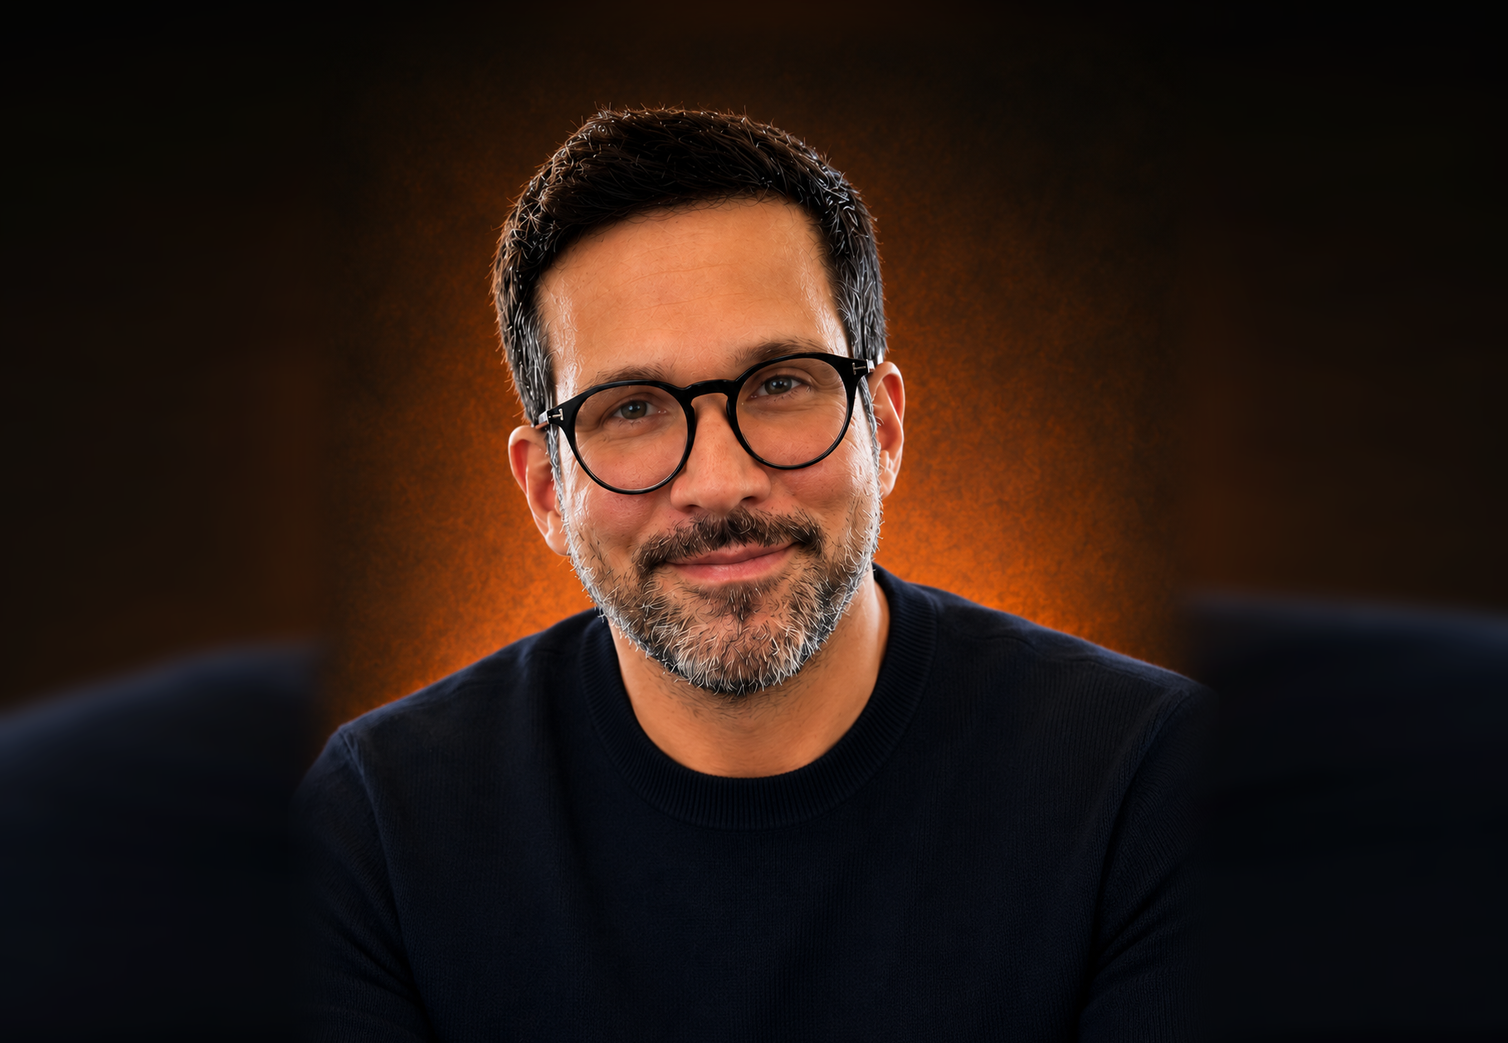
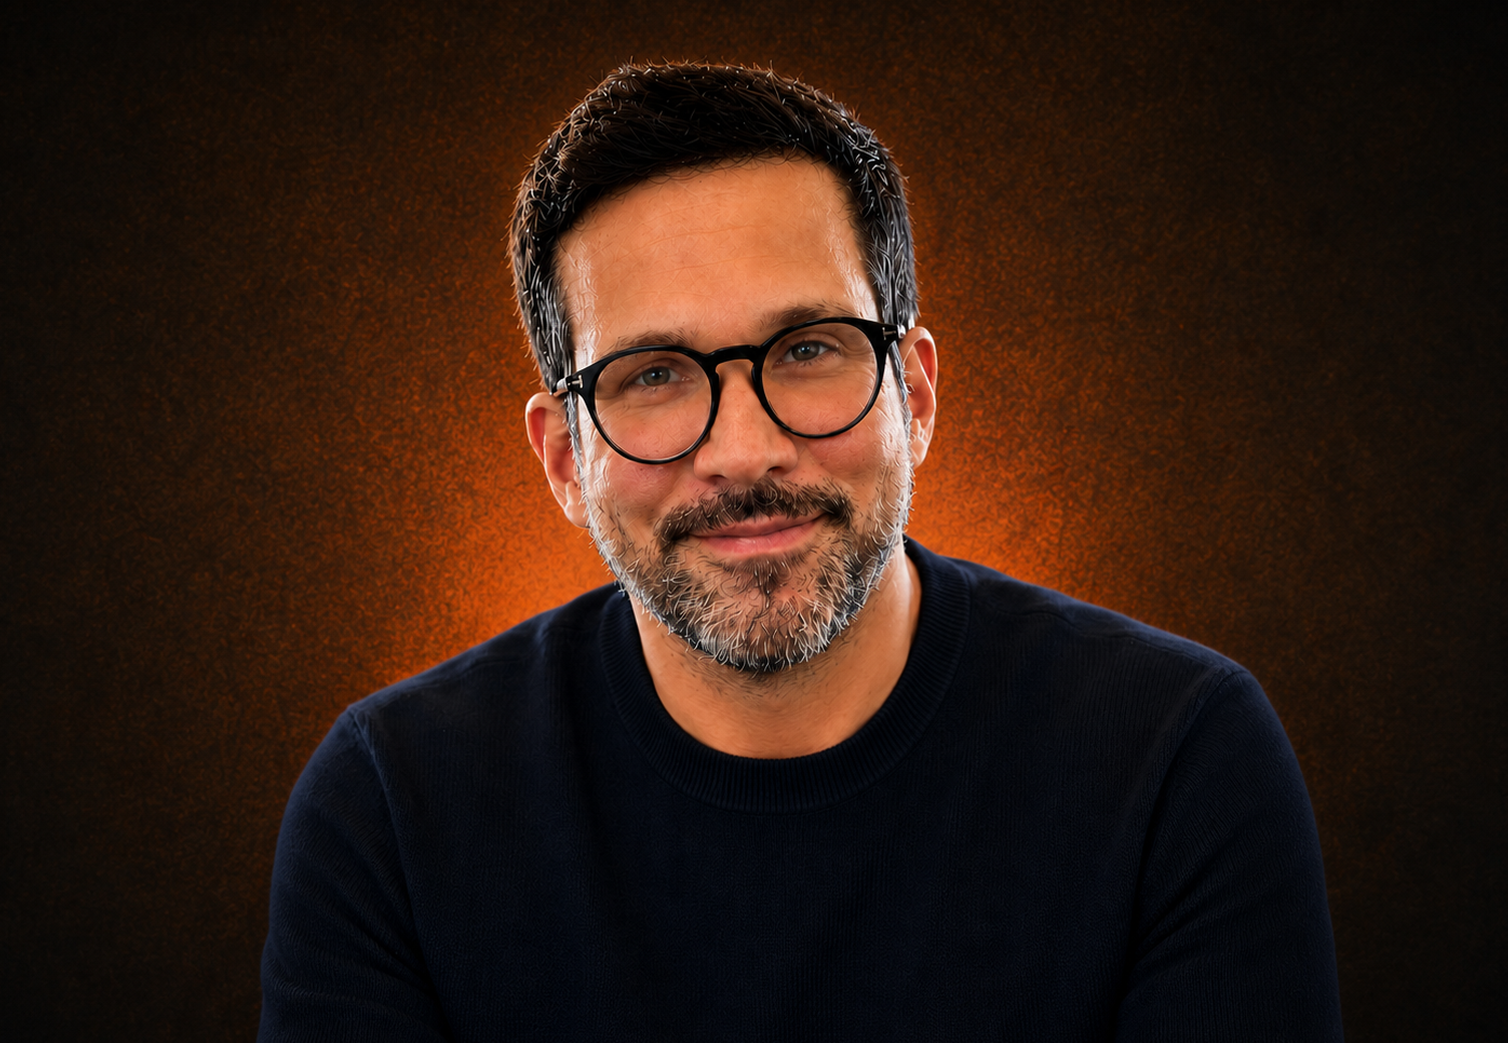
Clean Andre Ulrich portrait background

diff --git a/site/ui_kits/website/sections-lower.jsx b/site/ui_kits/website/sections-lower.jsx
@@ -46,7 +46,7 @@ function UeberUns() {
           <p style={{ margin: 0, fontSize: 16.5, lineHeight: 1.7, color: 'var(--text-body)' }}>Simplaro ist ein Schweizer Unternehmen aus Zürich. Wir verbinden unternehmerische Praxis, menschliche Werte und moderne Technologie zu einem ganzheitlichen Ansatz – und begleiten KMU persönlich, vor Ort und auf Augenhöhe.</p>
         </div>
         <div style={{ display: 'grid', gridTemplateColumns: 'repeat(auto-fit, minmax(min(420px, 100%), 1fr))', gap: 22, alignItems: 'stretch' }}>
-          <TeamCard src="../../assets/andre-ulrich-team.png?v=20260720-andre-ulrich-new" alt="Porträt von André Ulrich" name="André Ulrich" role="Mitgründer · KMU-Experte" />
+          <TeamCard src="../../assets/andre-ulrich-team.png?v=20260720-andre-bg-clean" alt="Porträt von André Ulrich" name="André Ulrich" role="Mitgründer · KMU-Experte" />
           <TeamCard src="../../assets/philip-krieger-team.png" alt="Porträt von Philip Krieger" name="Philip Krieger" role="Mitgründer · Coach" />
           <QuoteCard
             logoSrc="../../assets/logo-mark-terra-symbol-white.png"

diff --git a/site/ui_kits/website/index.html b/site/ui_kits/website/index.html
@@ -22,7 +22,7 @@
 <script type="text/babel" src="dsgvo-siegel.jsx?v=20260716-quote-clean-centered"></script>
 <script type="text/babel" src="sections-hero.jsx?v=20260718-hero-headline-kmu-final"></script>
 <script type="text/babel" src="sections-main.jsx?v=20260718-vertrauen"></script>
-<script type="text/babel" src="sections-lower.jsx?v=20260720-andre-ulrich-new"></script>
+<script type="text/babel" src="sections-lower.jsx?v=20260720-andre-bg-clean"></script>
 <script type="text/babel" src="chat-widget.jsx?v=20260718-chat-fab-sand"></script>
 <script type="text/babel" src="mobile-nav.jsx?v=20260716-quote-clean-centered"></script>
 <script type="text/babel" src="tweaks-panel.jsx?v=20260716-quote-clean-centered"></script>
